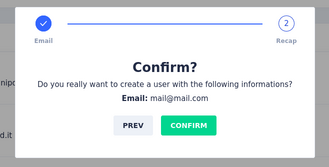
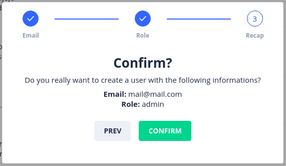
fix-aggiunta utente

Changed region(s): [[0.0, 0.0, 1.0, 0.994], [0.0839, 0.3313, 0.9231, 0.8735], [0.3636, 0.7229, 0.4476, 0.8133]]

diff --git a/manualeUtente/content/4 Applicazione web/4.4 Gestione utenti/4.4.4 Aggiunta.md b/manualeUtente/content/4 Applicazione web/4.4 Gestione utenti/4.4.4 Aggiunta.md
@@ -8,6 +8,6 @@ Una volta invocata la funzione di aggiunta, apparirà una nuova schermata a vide
 
 Una volta fatto ciò, e premuto sull'apposito tasto **Confirm**, verra' automaticamente inviata una email all'indirizzo email appena inserito contenente un link per permettere all'*utente* di completare la procedura di registrazione.
 
-La seguente schermata raffigura la conferma di un inserimento di un nuovo utente nel sistema:
+La seguente schermata raffigura la richiesta di conferma di un inserimento di un nuovo utente nel sistema discussa precedentemente:
 
 ![schermata finale aggiunta utente](assets/web/adduser2.png)
